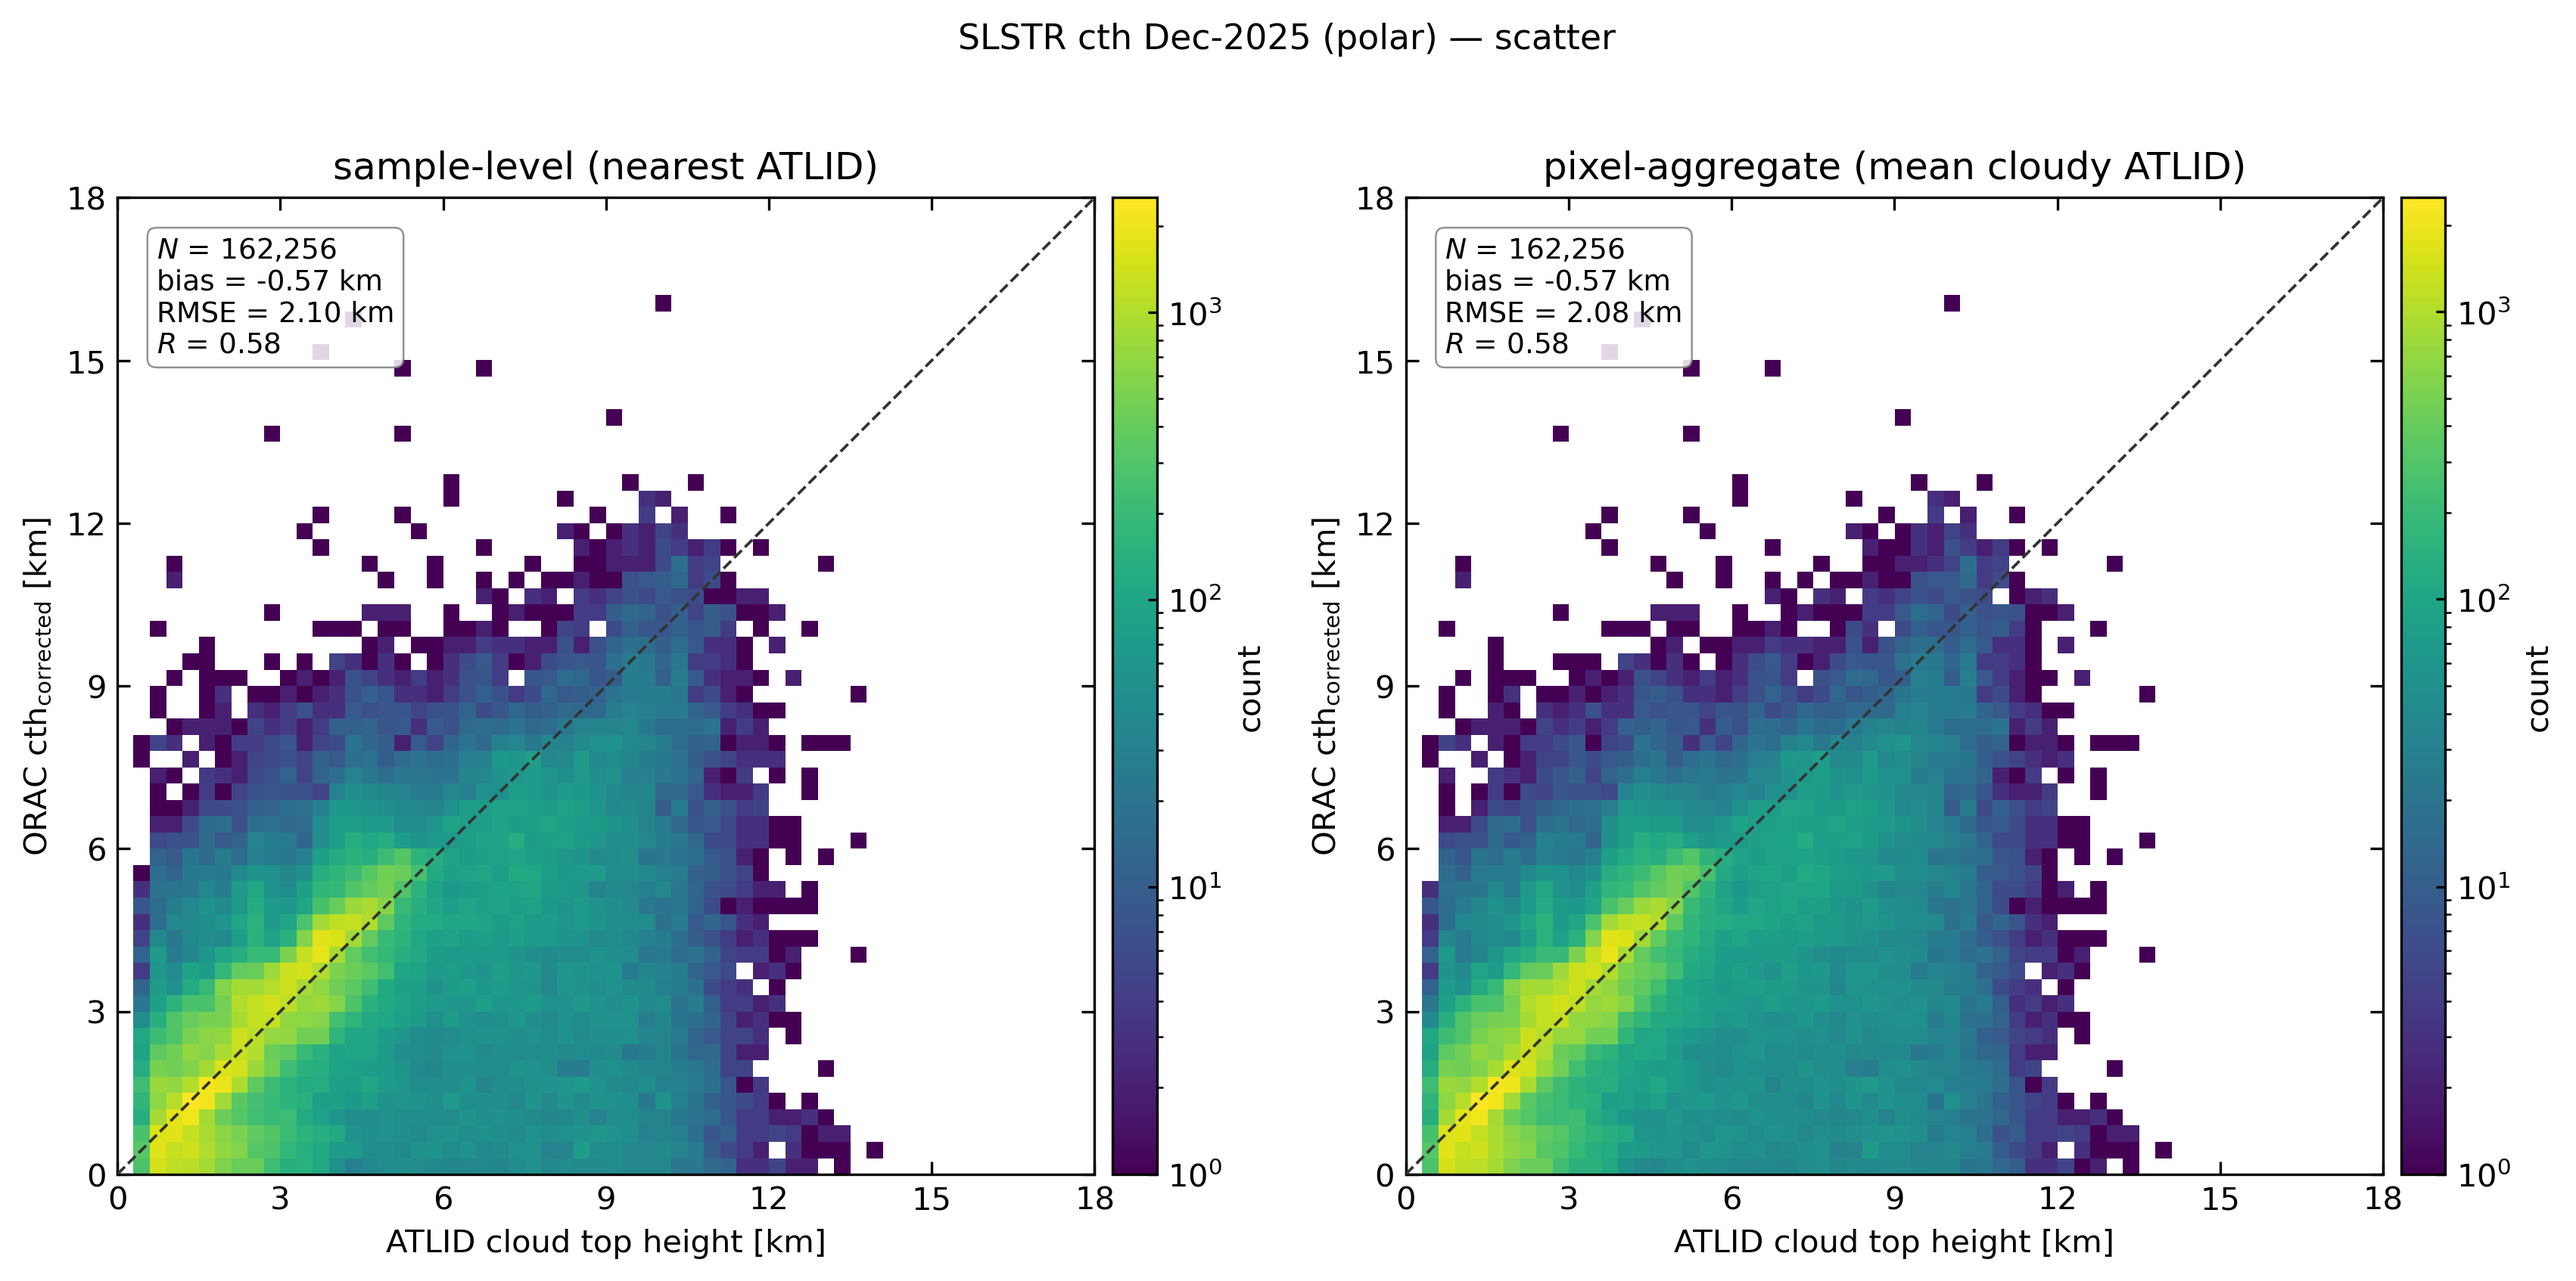
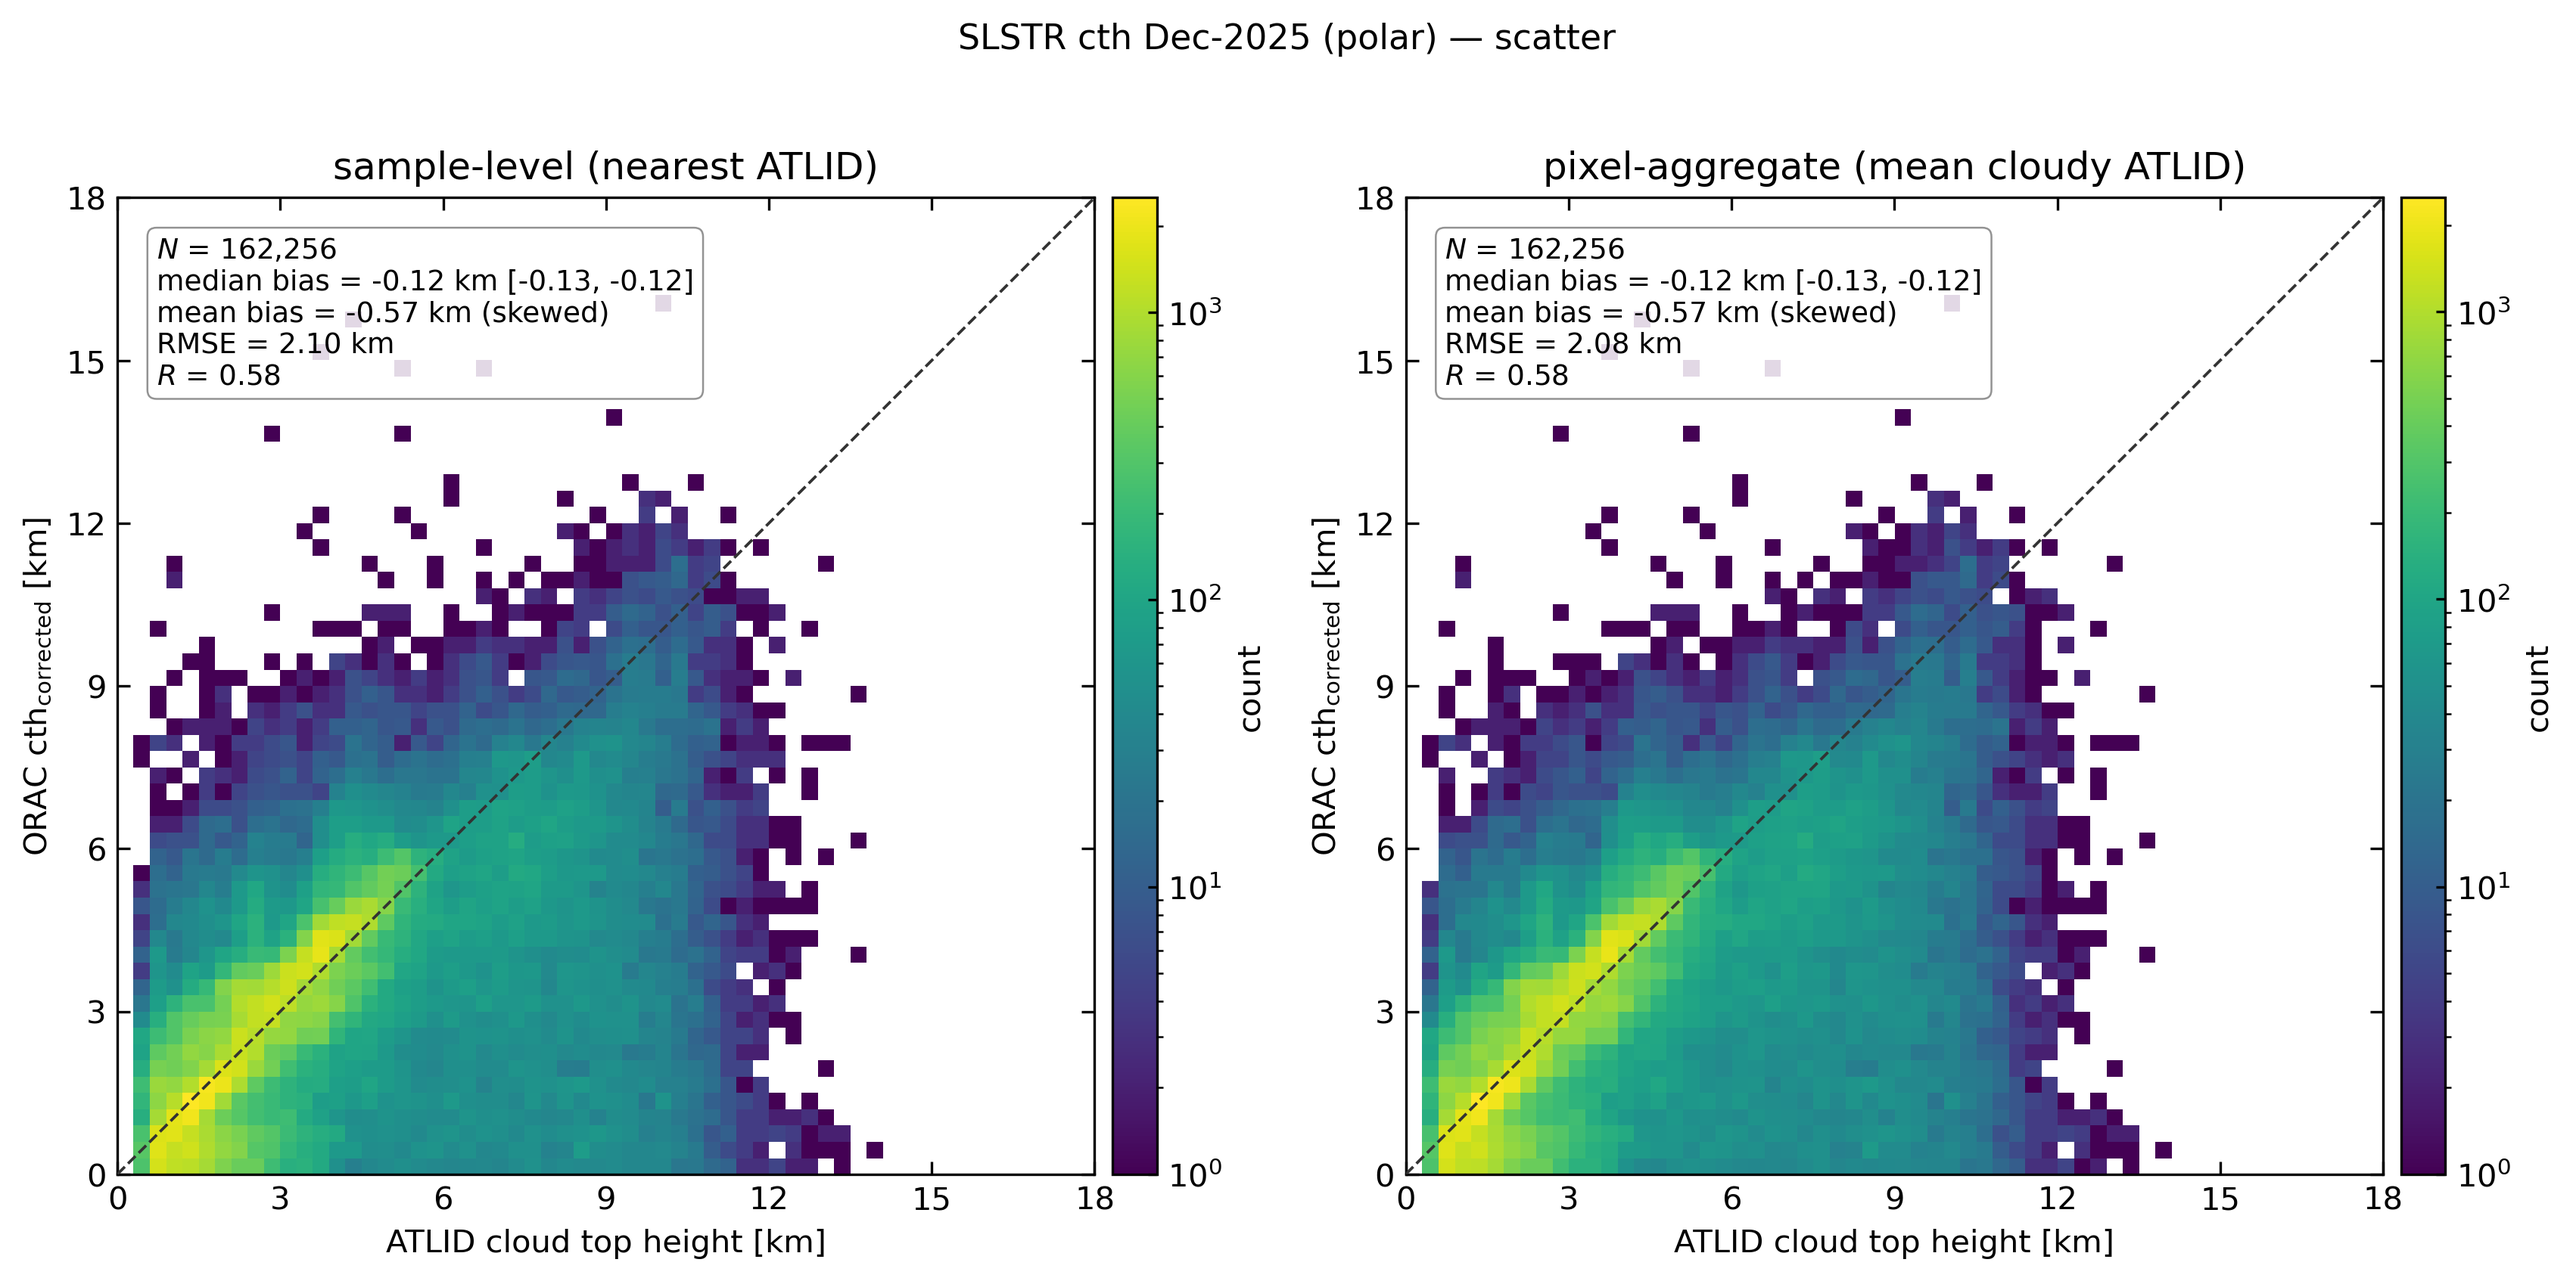
slstr(cth): make CTH median-primary (median -0.12 vs mean -0.57)

Changed region(s): [[0.5605, 0.2149, 0.7785, 0.307], [0.0623, 0.2149, 0.2803, 0.307]]

diff --git a/validation/cth_figures.py b/validation/cth_figures.py
@@ -170,7 +170,9 @@ def scatter_panel(
         if n >= 2:
             im = _density_image(ax, d2[x].values, d2[y].values)
             _attach_colorbar(fig, ax, im, label="count")
-        _stat_text(ax, n, bias, rmse, r)
+        _stat_text(ax, n, bias, rmse, r,
+                   median_bias=(float((d2[y] - d2[x]).median()) if n >= 2 else None),
+                   median_ci=(median_ci95(d2[y] - d2[x]) if n >= 2 else None))
         ax.set_title(label, pad=6)
     if suptitle:
         fig.suptitle(suptitle, fontsize=11, y=1.02)
@@ -292,7 +294,9 @@ def scatter_compare(
         if n >= 2:
             im = _density_image(ax, d2[x].values, d2[y].values)
             _attach_colorbar(fig, ax, im, label="count")
-        _stat_text(ax, n, bias, rmse, r)
+        _stat_text(ax, n, bias, rmse, r,
+                   median_bias=(float((d2[y] - d2[x]).median()) if n >= 2 else None),
+                   median_ci=(median_ci95(d2[y] - d2[x]) if n >= 2 else None))
         ax.set_title(label, pad=6)
     if suptitle:
         fig.suptitle(suptitle, fontsize=11, y=1.02)

diff --git a/docs/reports/slstr_cth_2025-12.md b/docs/reports/slstr_cth_2025-12.md
@@ -64,25 +64,29 @@ pixels** after `qc_strict`.
 
 | stratum                  |   N     | bias (km) | RMSE (km) |  R    |
 | ------------------------ | ------- | --------- | --------- | ----- |
-| **all (= polar)**        | 162 256 | **−0.57** | **2.08**  | **0.58** |
-| ocean                    | 106 781 | −0.68     | 2.24      | 0.53  |
-| land                     |  55 475 | −0.36     | 1.73      | 0.61  |
-| cth_low (< 3 km)         |  83 256 | +0.08     | 1.06      | 0.48  |
-| cth_mid (3–7 km)         |  61 398 | −0.46     | 1.69      | 0.24  |
-| cth_high (≥ 7 km)        |  17 602 | −4.03     | 4.96      | 0.03  |
-| class_thick (1-layer)    | 145 434 | **−0.15** | 1.41      | **0.75** |
-| class_thick_over_thick   |  16 789 | −4.17     | 4.96      | 0.22  |
-| dist < 2 km              | 162 256 | −0.57     | 2.08      | 0.58  |
-| Δt < 3 min               |   9 414 | −0.59     | 2.18      | 0.59  |
+| stratum | N | **median bias (km)** | mean bias (km) | RMSE (km) | R |
+| ------------------------ | ------- | -------------------- | -------------- | --------- | ----- |
+| **all (= polar)**        | 162 256 | **−0.12**            | −0.57          | **2.08**  | **0.58** |
+| ocean                    | 106 781 | −0.19                | −0.68          | 2.24      | 0.53  |
+| land                     |  55 475 | +0.04                | −0.36          | 1.73      | 0.61  |
+| cth_low (< 3 km)         |  83 256 | −0.03                | +0.08          | 1.06      | 0.48  |
+| cth_mid (3–7 km)         |  61 398 | −0.01                | −0.46          | 1.69      | 0.24  |
+| cth_high (≥ 7 km)        |  17 602 | **−3.76**            | −4.03          | 4.96      | 0.03  |
+| class_thick (1-layer)    | 145 434 | **−0.02**            | −0.15          | 1.41      | **0.75** |
+| class_thick_over_thick   |  16 789 | **−4.03**            | −4.17          | 4.96      | 0.22  |
 
-Sample view is within 0.02 km / 0.01 R of pixel view in every stratum.
+(Note: for CTH the median and mean are close — CTH is only mildly skewed by the
+multi-layer tail — but the median is the cleaner headline and is reported for
+consistency with COT/CER. Sample view is within 0.02 km / 0.01 R of pixel view.)
 
 The headline:
 
-> **Over polar scenes in December 2025, ORAC SLSTR cloud-top height agrees with
-> ATLID to bias −0.57 km, RMSE 2.08 km, R 0.58. Single-layer thick cloud is
-> essentially unbiased (−0.15 km, R 0.75); the error is concentrated in high and
-> multi-layer cloud (≈ −4 km), the classic passive multi-layer ambiguity.**
+> **Over polar scenes in December 2025, the *typical* ORAC SLSTR cloud-top height
+> is essentially unbiased against ATLID — median bias −0.12 km (mean −0.57 km,
+> pulled down by the multi-layer tail), RMSE 2.08 km, R 0.58. Single-layer thick
+> cloud is near-perfect (median −0.02 km, R 0.75); the error is concentrated and
+> *robust* in high / multi-layer cloud (median ≈ −4 km — confirmed not a tail
+> artefact), the classic passive multi-layer ambiguity.**
 
 Notable structure:
 

diff --git a/docs/reports/slstr_validation_summary_2025-12.md b/docs/reports/slstr_validation_summary_2025-12.md
@@ -23,7 +23,7 @@ the mean is shown as a skew-sensitive diagnostic (for water COT the mean even
 
 | Variable | Reference | Regime | Headline (qc_strict, pixel) | Verdict |
 | -------- | --------- | ------ | --------------------------- | ------- |
-| **CTH**       | A-CTH (ATLID)   | polar, day+night | bias **−0.57 km**, RMSE 2.08 km, R **0.58** | **good** |
+| **CTH**       | A-CTH (ATLID)   | polar, day+night | **median −0.12 km** (mean −0.57), RMSE 2.08 km, R **0.58** | **good** |
 | **Water COT** | ACM-CAP liquid τ | polar, day (Antarctic) | **median −4.8** (mean +3.1 *skewed*), r_log 0.11 | τ low, noisy |
 | **Ice COT**   | A-EBD column τ  | polar, day (Antarctic) | **median +2.0** (mean +7.2 *skewed*), r_log 0.17 | modest, noisy |
 | **CER**       | ACM-CAP liquid rₑ | polar, day (Antarctic) | **median +1.1 µm** (mean +8.4 *skewed*), R ≈ **−0.1** | low bias, no skill |
@@ -34,7 +34,7 @@ intervals are tight (N = 53k–173k) and exclude zero (e.g. water COT median
 correlation*, not sampling noise.
 
 **One-line message:** in the polar regime this sensor pairing can access, the
-**thermal** cloud-top retrieval is nearly unbiased *and correlated* (−0.57 km,
+**thermal** cloud-top retrieval is nearly unbiased *and correlated* (median −0.12 km,
 R 0.58). The **solar** retrievals (COT, CER) have only **small-to-moderate median
 biases** (liquid τ ≈ −5, ice τ ≈ +2, CER ≈ +1 µm) but **weak correlation** — they
 are **noisy, not grossly biased**. The large positive *mean* biases reported
@@ -135,10 +135,11 @@ can be small at once.*
 
 ### 3.1 Cloud-top height — the strong result
 
-Bias **−0.57 km**, RMSE **2.08 km**, R **0.58** (N = 162 k). Single-layer thick
-cloud is essentially unbiased (−0.15 km, R 0.75); the error is concentrated in
-high / multi-layer cloud (≈ −4 km) — the classic passive multi-layer ambiguity,
-as in SEVIRI.
+**Median bias −0.12 km** (mean −0.57, pulled down by the multi-layer tail),
+RMSE **2.08 km**, R **0.58** (N = 162 k). The *typical* cloud top is essentially
+unbiased; single-layer thick cloud is near-perfect (median −0.02 km, R 0.75). The
+error is concentrated and *robust* in high / multi-layer cloud (median ≈ −4 km) —
+the classic passive multi-layer ambiguity, as in SEVIRI.
 
 ![CTH scatter](../../figures/slstr_cth_2025-12/cth_scatter.png)
 ![CTH by cloud type](../../figures/slstr_cth_2025-12/cth_by_cloud_type.png)
